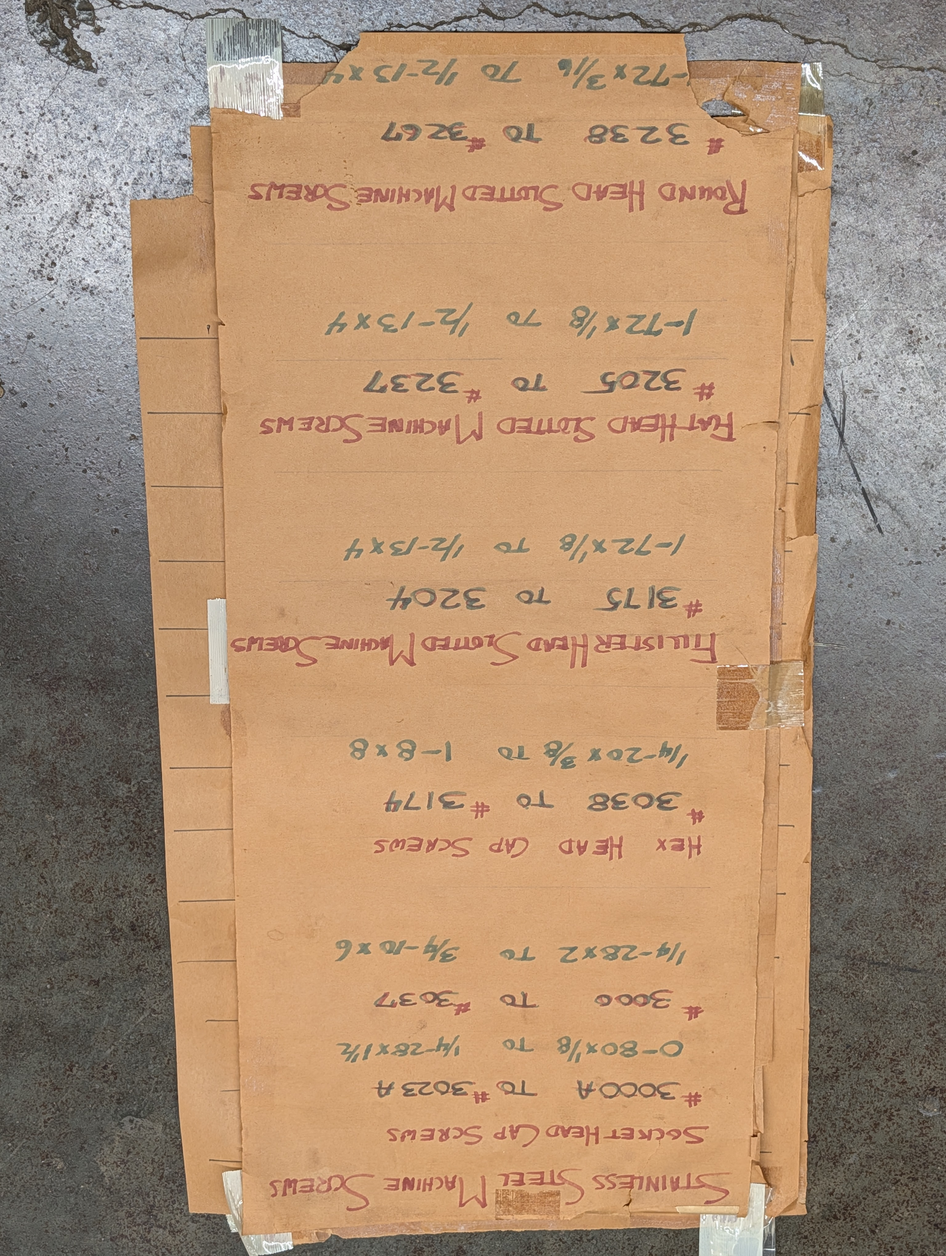
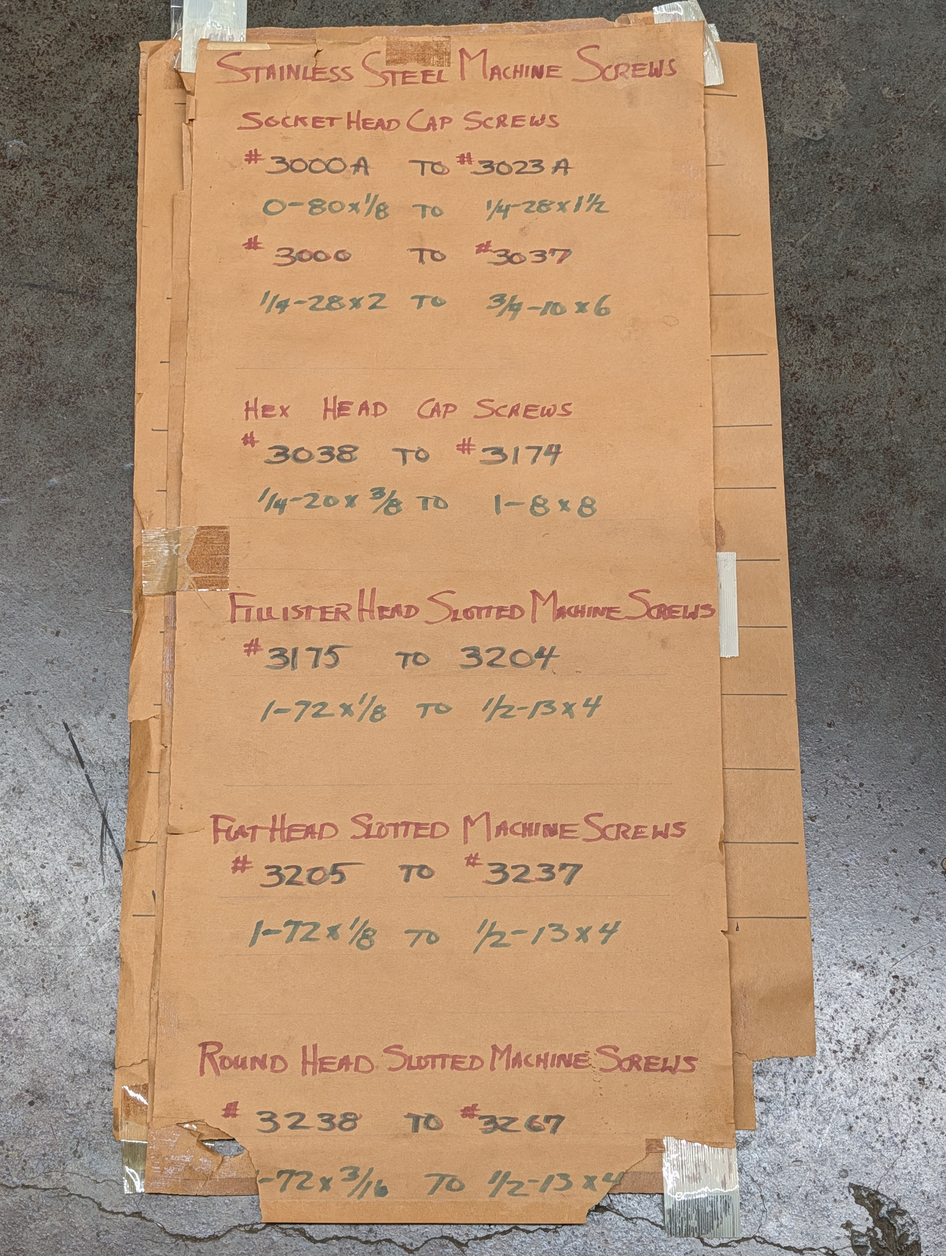
Rotate source photos upright

diff --git a/NOTES.md b/NOTES.md
@@ -13,7 +13,7 @@ The four sheets are kraft paper, hand-lettered, taped up in layers and photograp
 | `PXL_20260918_120938474.jpg` | Real Steel |
 | `PXL_20260918_121002068.jpg` | Classic Brass |
 
-Two photos are rotated relative to the writing: the brass sheet by 90° and the stainless machine-screw sheet by 180°. They were straightened before reading; the originals are left as shot.
+Two photos came off the camera rotated relative to the writing — the brass sheet by 90° and the stainless machine-screw sheet by 180°. Both have since been rotated upright in place with `jpegtran -perfect`, which transforms the JPEG coefficients directly, so the image data is unchanged rather than re-encoded. The as-shot versions remain in the first commit.
 
 ## Conventions of the original sheets
 
